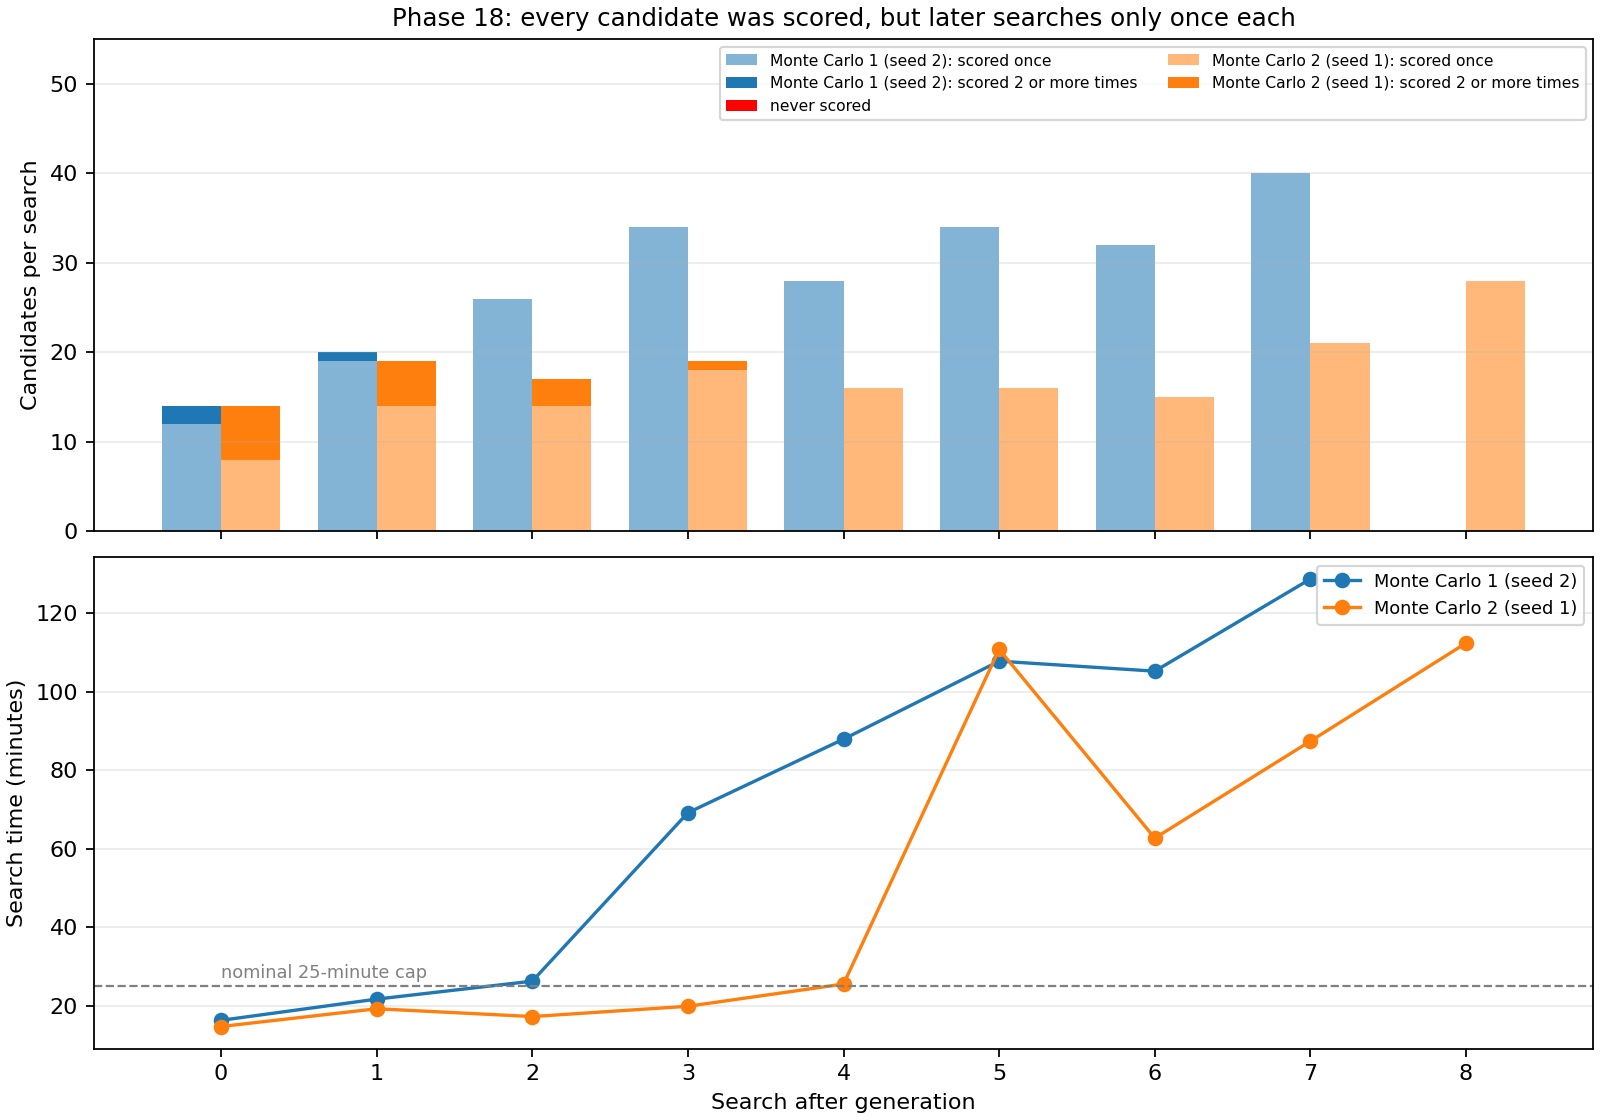
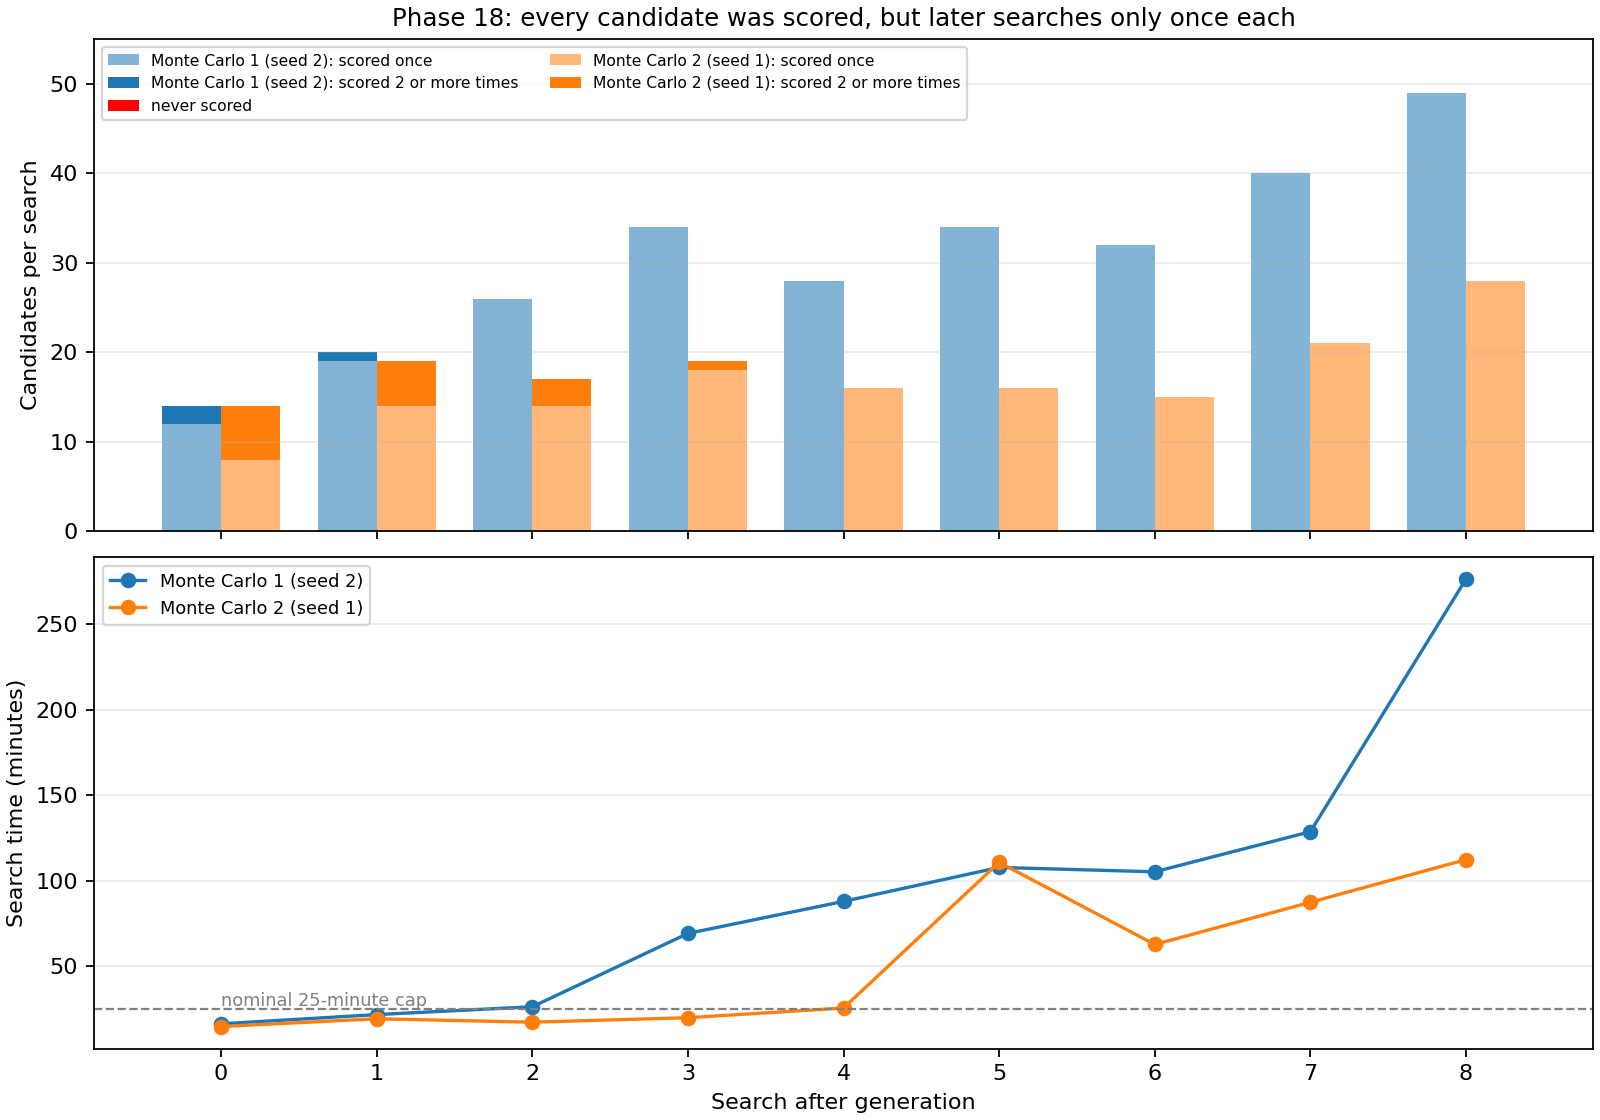
exp 013 update

diff --git a/documentation/website/content/experiments/experiment-013-monte-carlo-2.md b/documentation/website/content/experiments/experiment-013-monte-carlo-2.md
@@ -84,7 +84,7 @@ Finally we combined everything: the BatchNorm-and-residual starter, a new action
 
 > [!CAPTION] Figure 7. Phase 18, Monte Carlo 1 (blue) against Monte Carlo 2 (orange); solid seed 1, dotted seed 2. Top: training accuracy. Middle: test accuracy after each generation. Bottom: parameters in thousands. Gray lines are generation boundaries (30 epochs); red crosses mark the two crashed runs. The first 300 epochs are shown.
 
-**Answer so far: Monte Carlo 2 is clearly ahead: 74.8% test against 68.3%, with a network of about 485,000 parameters against 21,000.** After every generation boundary training accuracy jumps a little: each change the search makes lets the network learn more.
+**Answer: Monte Carlo 2 is clearly ahead: 80.0% test after 300 epochs against at most 68.3% for Monte Carlo 1, with a network of about 485,000 parameters against 21,000.** After every generation boundary training accuracy jumps a little: each change the search makes lets the network learn more.
 
 ### What Monte Carlo 2 does differently from Monte Carlo 1
 
@@ -968,8 +968,8 @@ Both algorithms measure every candidate at least once before they stop, so a sea
 | Algorithm | Seed | Epochs | Training accuracy | Validation accuracy | Test | Parameters | Searches | Mean search time | Selected actions |
 | --- | ---: | ---: | ---: | ---: | ---: | ---: | ---: | ---: | --- |
 | Monte Carlo 1 | 1 | 150 of 450 | 56.94% | 46.50% | running | 2,768 | 4 | 34 min | Sequential convolution + BN 2, Other 1, Sequential linear 1 |
-| Monte Carlo 1 | 2 | 270 of 450 | 72.64% | 65.82% | running | 21,208 | 8 | 70 min | Sequential convolution + BN 4, Widen convolution 2, Sequential linear 1, Residual convolution 1 |
-| Monte Carlo 2 | 1 | 294 of 450 | 86.77% | 80.42% | running | 485,504 | 9 | 52 min | Sequential convolution + BN 3, Widen convolution 6 |
+| Monte Carlo 1 | 2 | 330 of 450 | 78.73% | 74.30% | running | 40,960 | 10 | 106 min | Sequential convolution + BN 5, Widen convolution 3, Sequential linear 1, Residual convolution 1 |
+| Monte Carlo 2 | 1 | 321 of 450 | 91.96% | 80.86% | running | 1,039,040 | 10 | 72 min | Sequential convolution + BN 3, Widen convolution 7 |
 | Monte Carlo 2 | 2 | 150 of 450 | 64.65% | 52.96% | running | 7,904 | 4 | 28 min | Widen convolution 1, Other 2, Sequential linear 1 |
 
 > [!CAPTION] Table 37. Phase 18: Monte Carlo 1 against Monte Carlo 2.
@@ -1008,9 +1008,9 @@ The network of this run at four points: the starter, two generations in between,
 
 > [!CAPTION] Final figure. Left: A08's lead over the next-best candidate in each replay of the epoch-80 decision (mean of three seeds), with the number of seeds in which A08 was strictly ahead. Right, from top: Phase 18 training accuracy per epoch, test accuracy after each generation and parameters in thousands, Monte Carlo 1 against Monte Carlo 2 (the surviving seed of each; still running). Gray lines are generation boundaries (30 epochs).
 
-**The main result: Monte Carlo 2 learns CIFAR-10 starting from an almost empty network.** The run starts from 904 parameters: one 8-channel convolution, one small residual block and a linear classifier, a network that reaches only about 53% on its own. Monte Carlo 2 grew it, one change per generation, into a network of about 485,000 parameters that reaches about 80% validation and 74.8% test after 300 epochs (Figures 7 and 9). Our earlier good CIFAR-10 results (86–91% in Experiments 008–009) started from a hand-built network of 187,000 parameters; here almost the whole network was built by the search itself.
+**The main result: Monte Carlo 2 learns CIFAR-10 starting from an almost empty network.** The run starts from 904 parameters: one 8-channel convolution, one small residual block and a linear classifier, a network that reaches only about 53% on its own. Monte Carlo 2 grew it, one change per generation, into a network of about 485,000 parameters that reaches 80.0% test after 300 epochs (Figures 7 and 9). Our earlier good CIFAR-10 results (86–91% in Experiments 008–009) started from a hand-built network of 187,000 parameters; here almost the whole network was built by the search itself.
 
-**Monte Carlo 2 now finds the action that really helps.** After the scoring fixes it is ahead with A08 in every seed, by +6.1 pp on average, against +3.5 pp and a tie in one seed for the first version. In the long Phase 18 run it is ahead of the original Monte Carlo search after every generation from the third on, 74.0% against 65.9% test so far, and it grows a much larger network. With the better starter, growth with Monte Carlo 2 reached 82.3% test after 300 epochs, against 53% without growth.
+**Monte Carlo 2 now finds the action that really helps.** After the scoring fixes it is ahead with A08 in every seed, by +6.1 pp on average, against +3.5 pp and a tie in one seed for the first version. In the long Phase 18 run it is ahead of the original Monte Carlo search after every generation from the third on, 80.0% against 65.9% test, and it grows a much larger network. With the better starter, growth with Monte Carlo 2 reached 82.3% test after 300 epochs, against 53% without growth.
 
 - **Part 1:** measuring each candidate several times and the three simulation fixes made the search pick A08 reliably.
 - **Part 2:** from the tiny starter, the better search did not give better final networks (59–64%); scoring on 10% of the data was chosen as the best setting.
